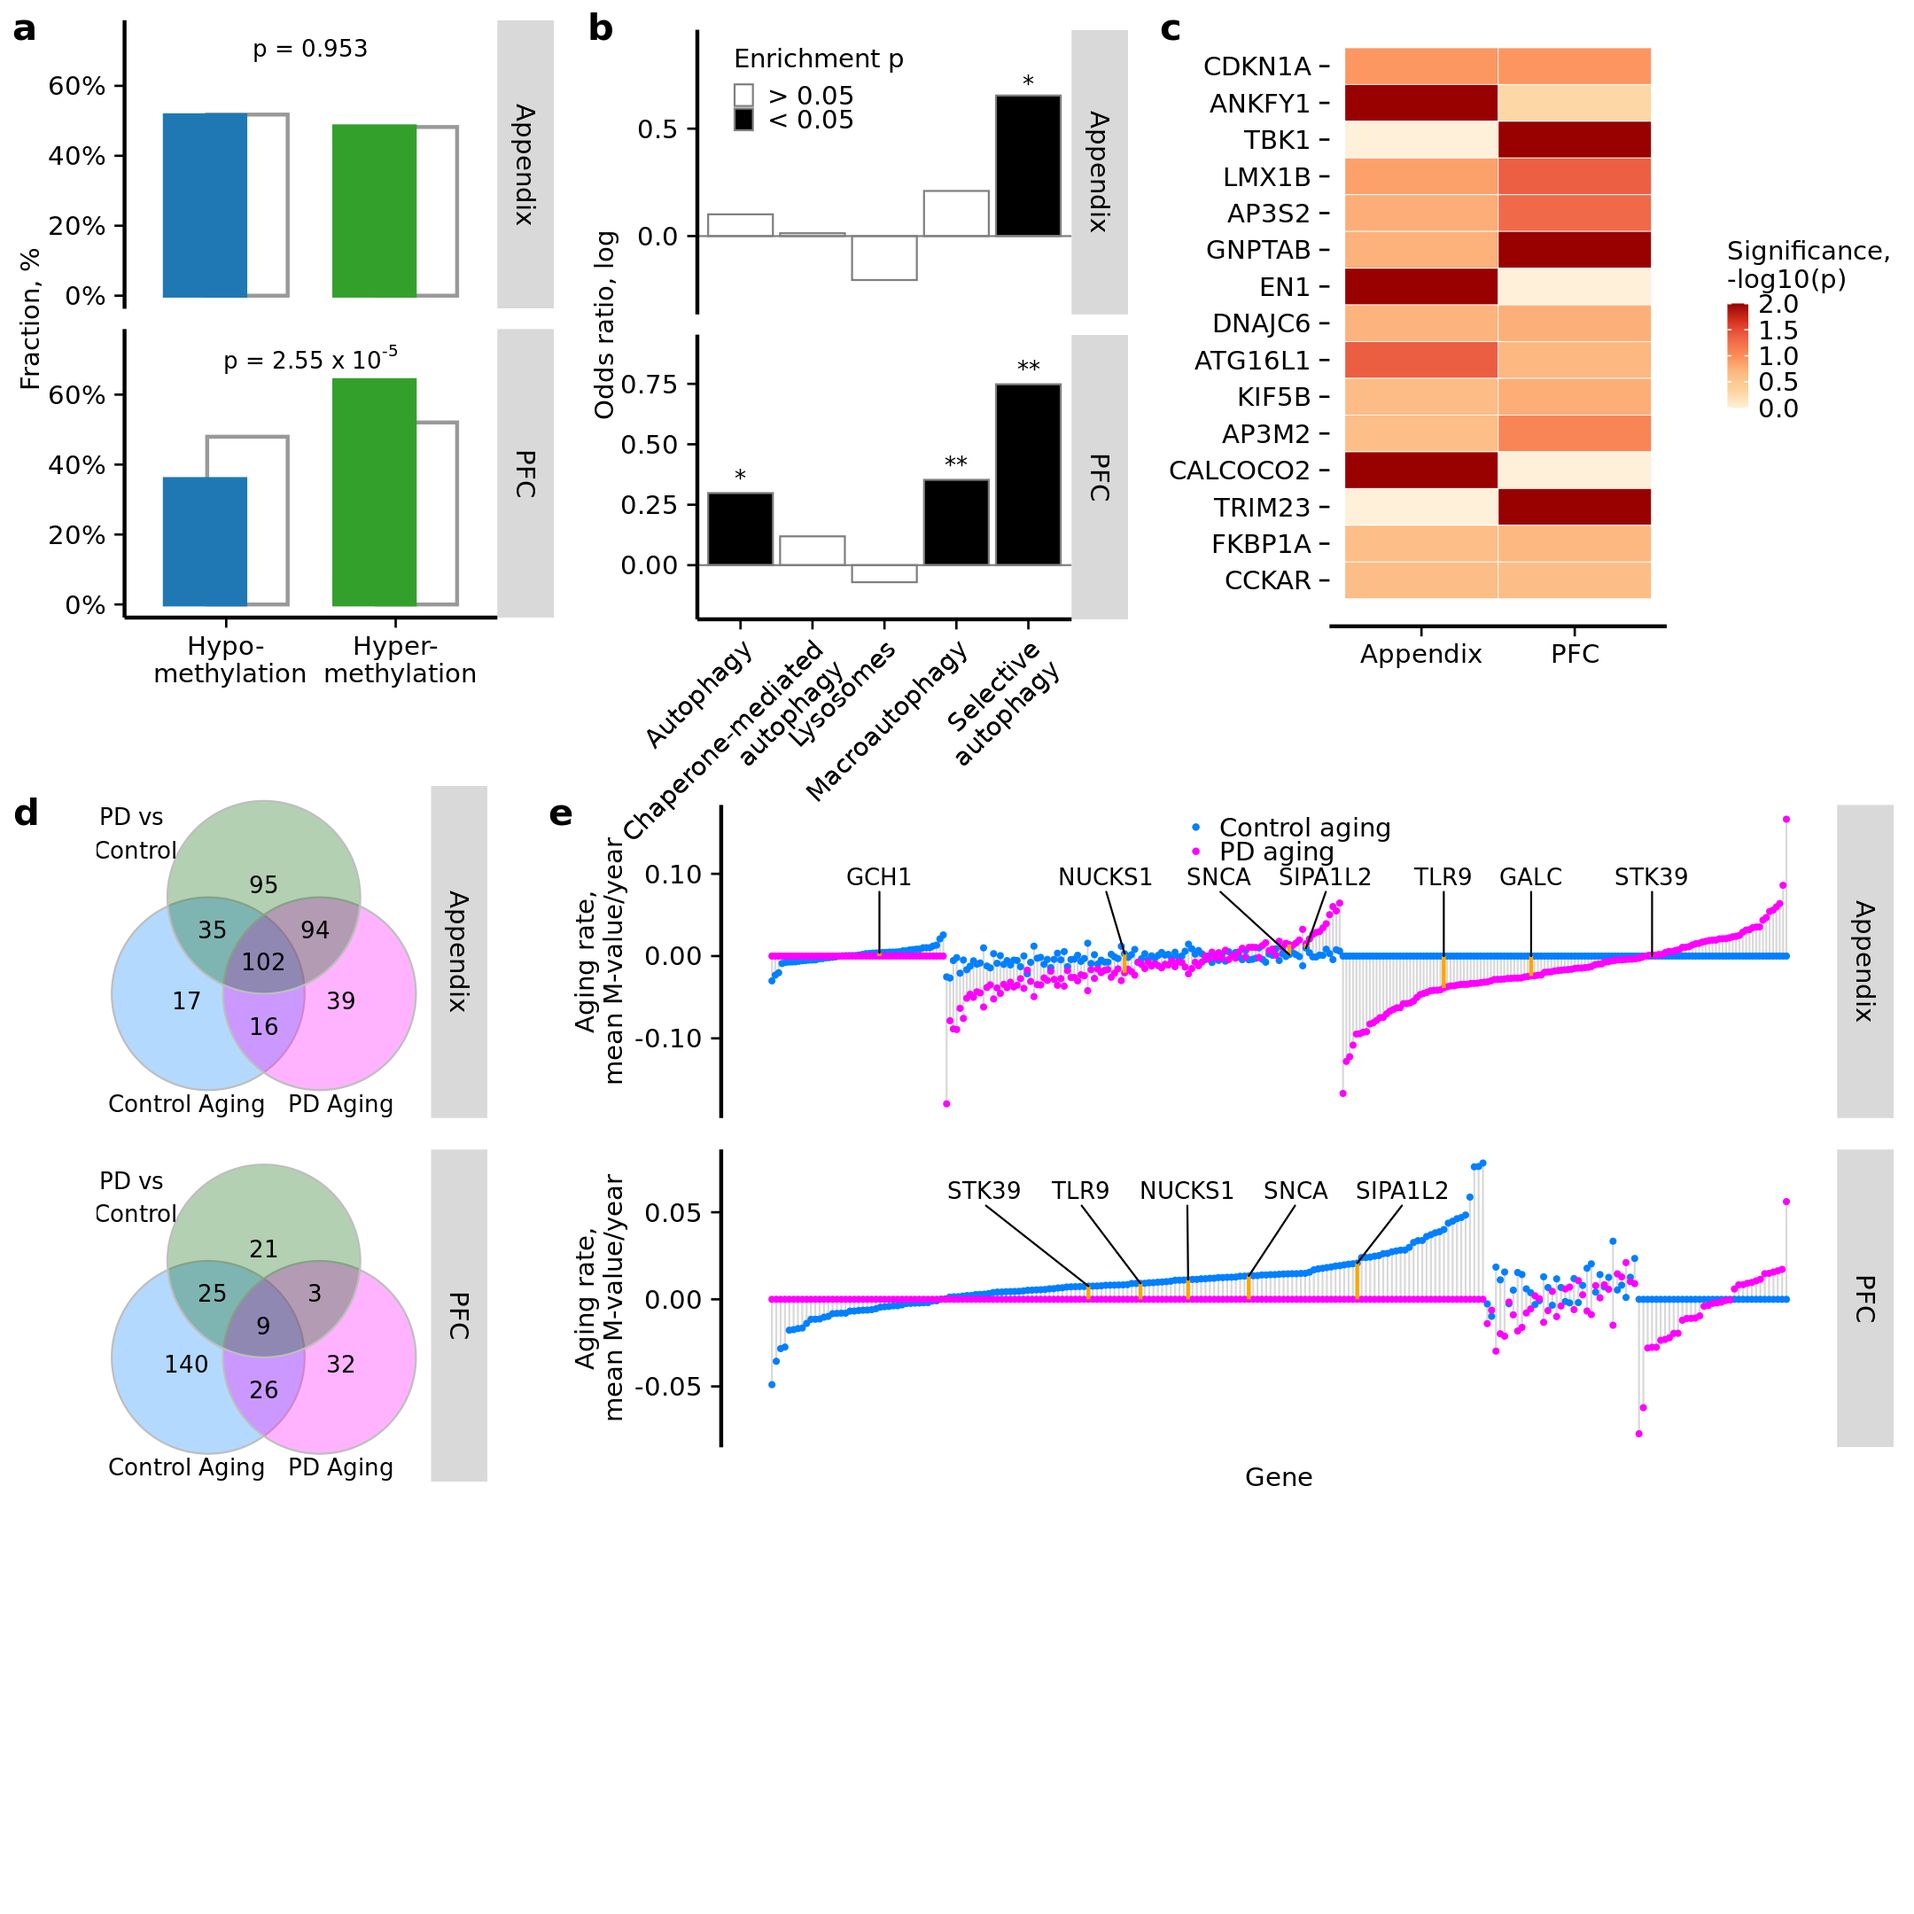
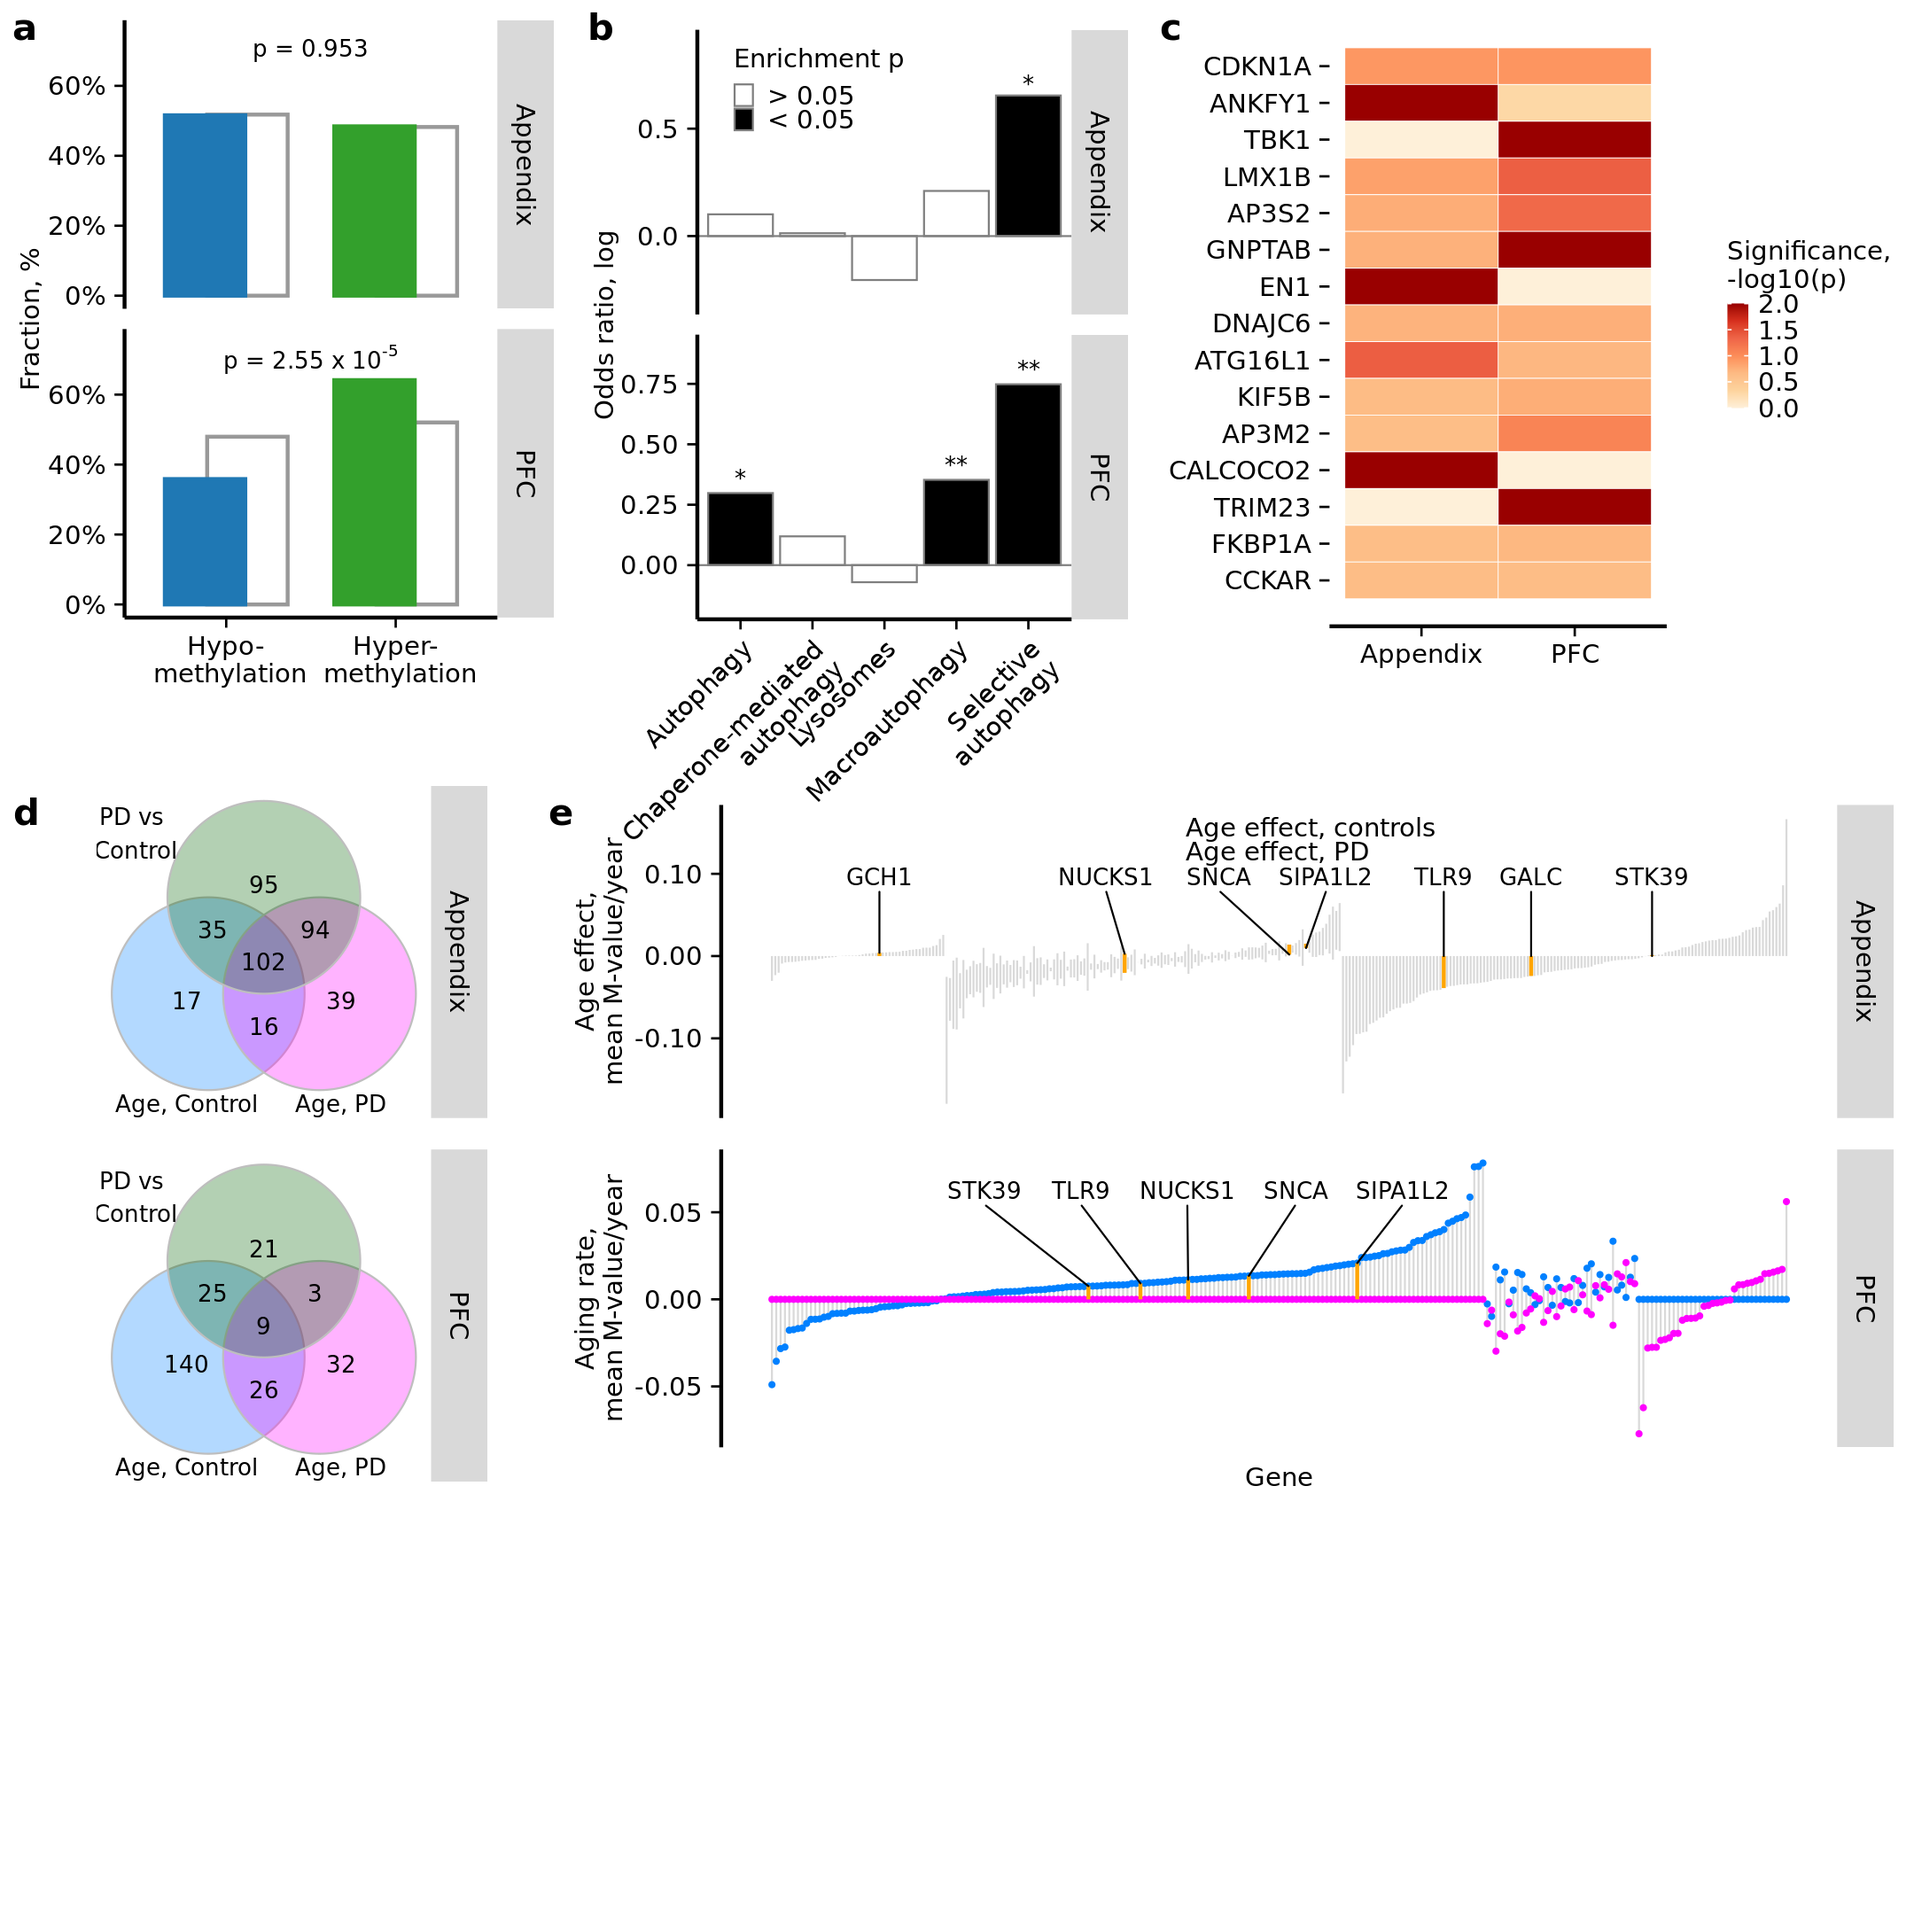
Updated Figure 4 with age-effect

diff --git a/Figure4/index.html b/Figure4/index.html
@@ -209,6 +209,9 @@ summary {
 
 
 <!-- # (c)  Juozas Gordevičius -->
+<pre><code>## Warning: Removed 303 rows containing missing values (geom_point).
+
+## Warning: Removed 303 rows containing missing values (geom_point).</code></pre>
 <p><img src="index_files/figure-html/unnamed-chunk-10-1.png" width="100%" /></p>
 <!--html_preserve-->
 <script type="application/shiny-prerendered" data-context="dependencies">
